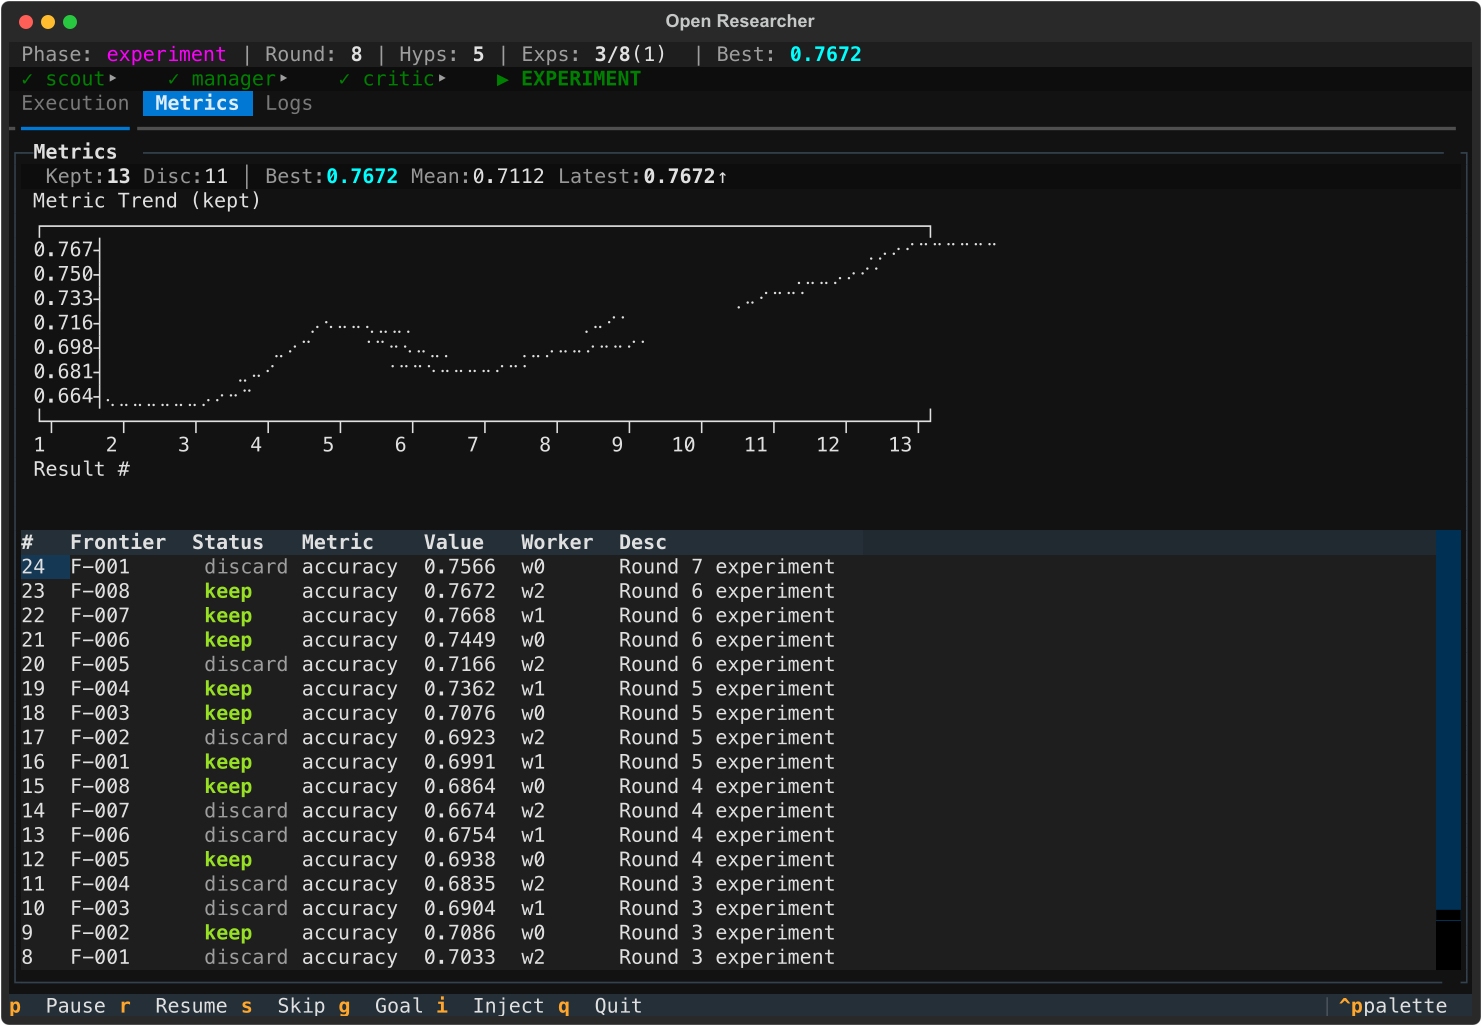
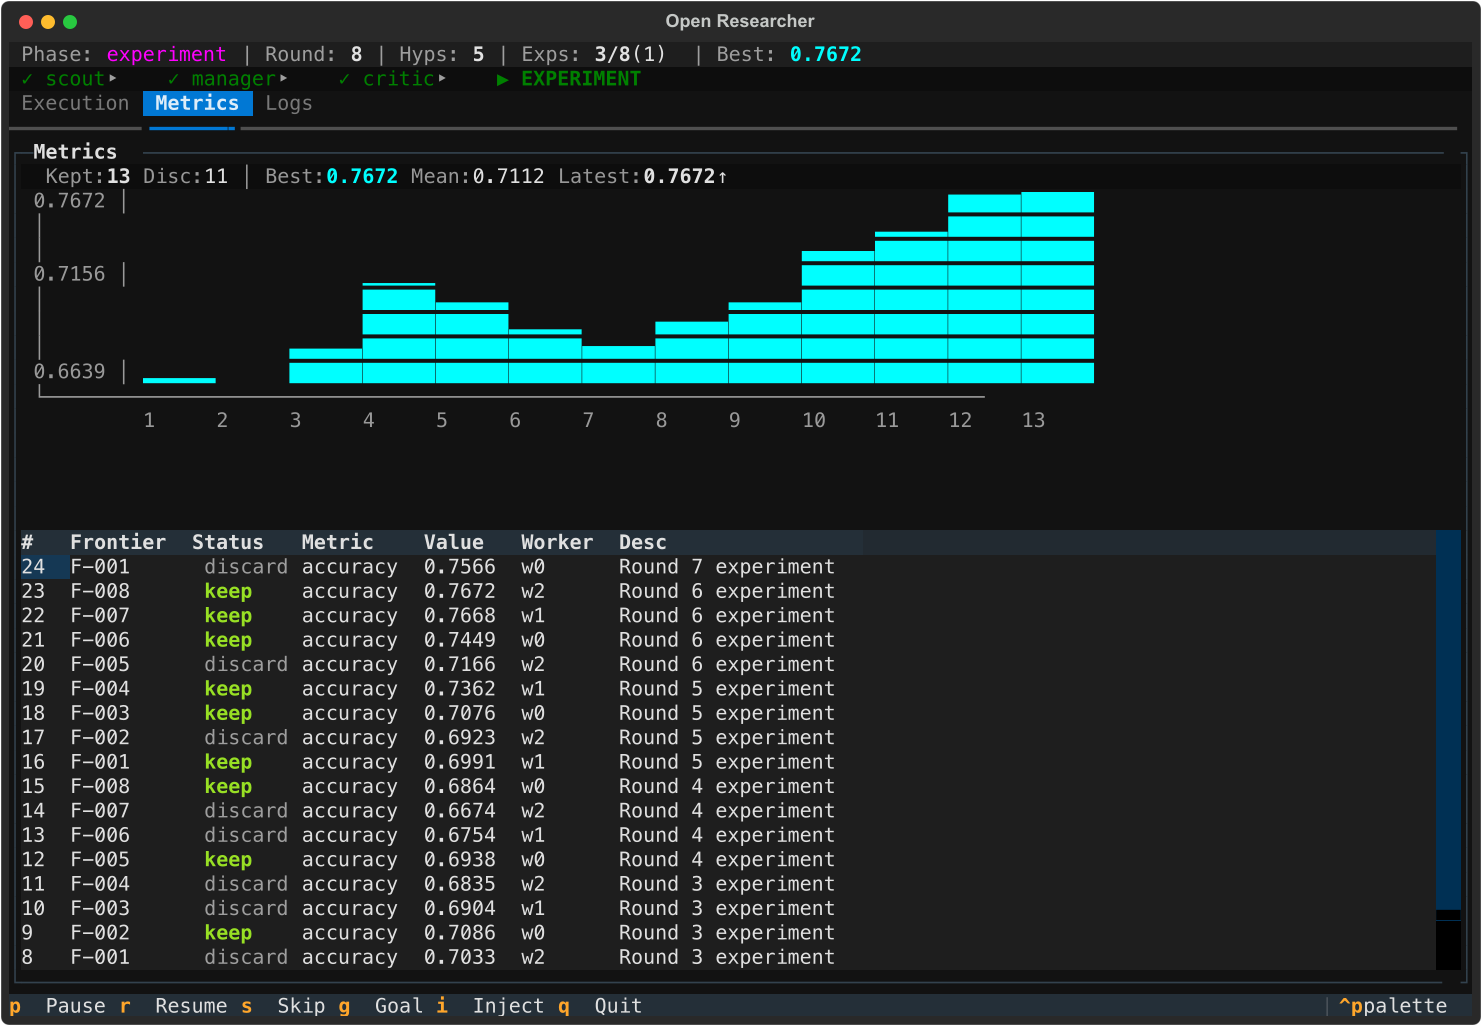
fix(v2): replace plotext chart with custom Unicode bar chart
- Removed plotext dependency for metrics chart (was fragile: ANSI stripping,
  frame artifacts, double-border with panel, right-edge misalignment)
- New chart uses Unicode block characters (▁▂▃▄▅▆▇█) rendered via Rich markup
- Clean Y-axis labels (top/middle/bottom), no frame clutter
- Dynamic bar width scales with data count (works for 5 to 60+ results)
- Sparse X-axis labels avoid crowding on long sessions
- Regenerated all 12 README screenshots with new chart style

Changed region(s): [[0.1862, 0.1871, 0.7449, 0.3743], [0.0, 0.1871, 0.6208, 0.4678]]

diff --git a/src/open_researcher_v2/tui/widgets.py b/src/open_researcher_v2/tui/widgets.py
@@ -307,47 +307,76 @@ class MetricChart(Vertical):
 
     @staticmethod
     def _render_chart(widget: Static, values: list[float]) -> None:
-        """Render a plotext chart into the given Static widget."""
-        try:
-            import plotext as plt
-            import re
+        """Render a Unicode block chart into the given Static widget."""
+        if not values:
+            widget.update("")
+            return
 
-            xs = list(range(1, len(values) + 1))
-            plt.clf()
-            plt.plot(xs, values, marker="braille")
-            plt.title("Metric Trend (kept)")
-            plt.xlabel("Result #")
+        _BLOCKS = " \u2581\u2582\u2583\u2584\u2585\u2586\u2587\u2588"
+        rows = 8
+        vmin, vmax = min(values), max(values)
+        vrange = vmax - vmin
+        if vrange < 1e-9:
+            # Flat data — show a single mid-height bar
+            widget.update(
+                f"[dim]  {vmin:.4f} [/][dim]\u2502[/]"
+                f"[cyan]{'\u2584' * min(len(values) * 2, 80)}[/]"
+            )
+            return
 
-            # Dynamic width: scale with data points but cap at terminal width
-            width = max(60, min(len(values) * 7 + 15, 110))
-            plt.plotsize(width, 12)
+        n = len(values)
+        # Bar width: aim for ~100 chars total chart area
+        bar_w = max(1, min(6, 100 // n))
 
-            # Limit x-ticks to avoid crowding
-            if len(xs) > 15:
-                step = max(1, len(xs) // 10)
-                ticks = [x for x in xs if x == 1 or x % step == 0]
-                if xs[-1] not in ticks:
-                    ticks.append(xs[-1])
-                plt.xticks(ticks)
+        # Y-axis labels: show at top, middle, bottom rows
+        y_positions = {rows - 1: vmax, rows // 2: (vmin + vmax) / 2, 0: vmin}
+
+        lines = []
+        for row in range(rows - 1, -1, -1):
+            # Y-axis label
+            if row in y_positions:
+                label = f"{y_positions[row]:.4f}"
             else:
-                plt.xticks(xs)
+                label = ""
+            parts = [f"[dim]{label:>7} \u2502[/]"]
 
-            chart = plt.build()
-            # Strip ANSI escape sequences
-            chart = re.sub(r"\x1b\[[0-9;]*m", "", chart)
-            # Remove trailing frame artifact on right edge
-            lines = chart.split("\n")
-            cleaned = []
-            for line in lines:
-                stripped = line.rstrip()
-                if stripped.endswith("\u2502") and not stripped.startswith("\u2502") and not stripped.startswith(" "):
-                    stripped = stripped[:-1].rstrip()
-                cleaned.append(stripped)
-            chart = "\n".join(cleaned)
-            widget.update(chart)
-        except ImportError:
-            line = " ".join(f"{v:.4f}" for v in values)
-            widget.update(f"[dim]Values: {line}[/]")
-        except Exception:
-            logger.debug("Chart rendering failed", exc_info=True)
-            widget.update("[dim]Chart unavailable[/]")
+            for v in values:
+                normalized = (v - vmin) / vrange * rows * 8
+                row_fill = normalized - row * 8
+                if row_fill >= 8:
+                    ch = _BLOCKS[8]
+                elif row_fill >= 1:
+                    ch = _BLOCKS[int(row_fill)]
+                elif row_fill > 0:
+                    ch = _BLOCKS[1]
+                else:
+                    ch = " "
+                if ch != " ":
+                    parts.append(f"[cyan]{ch * bar_w}[/]")
+                else:
+                    parts.append(" " * bar_w)
+
+            lines.append("".join(parts))
+
+        # X-axis line
+        chart_w = bar_w * n
+        lines.append(f"[dim]{' ' * 8}\u2514{'─' * chart_w}[/]")
+
+        # X-axis labels (sparse to avoid crowding)
+        if n <= 20:
+            step = 1
+        elif n <= 50:
+            step = max(1, n // 15)
+        else:
+            step = max(1, n // 10)
+
+        x_parts = [" " * 9]
+        for i in range(n):
+            num = i + 1
+            if num == 1 or num == n or num % step == 0:
+                x_parts.append(f"[dim]{str(num).center(bar_w)}[/]")
+            else:
+                x_parts.append(" " * bar_w)
+        lines.append("".join(x_parts))
+
+        widget.update("\n".join(lines))
